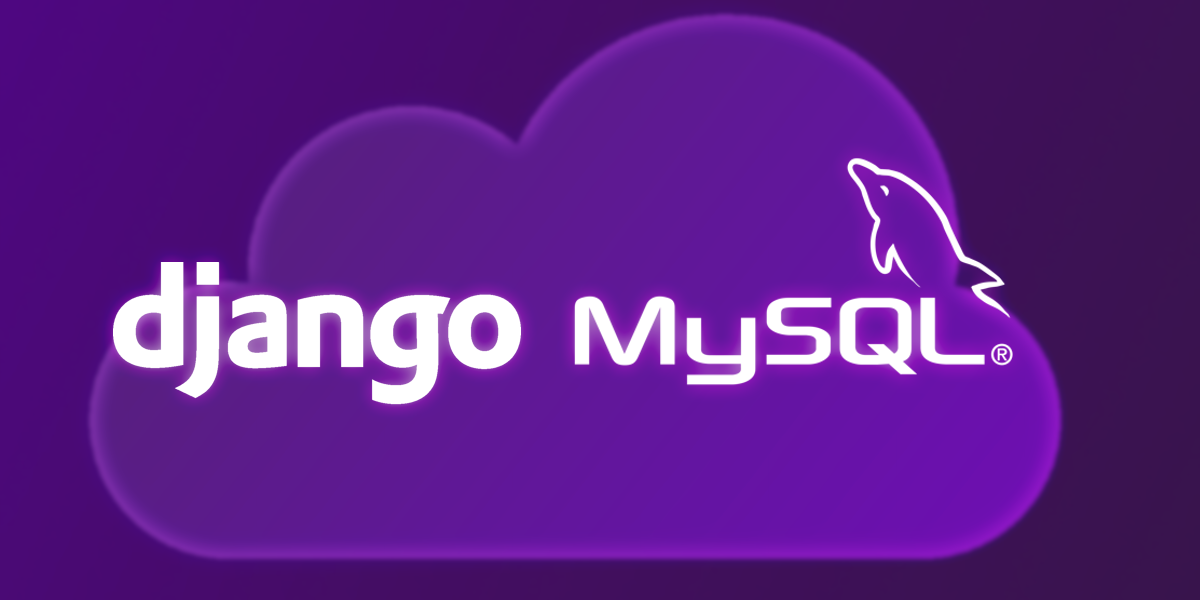
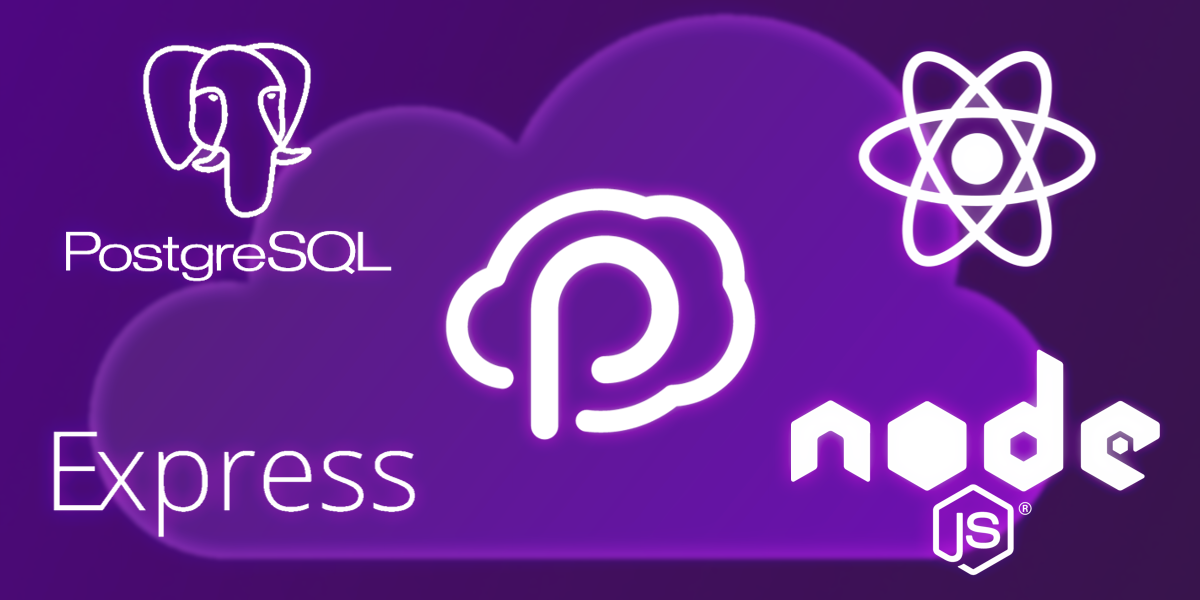
Added diagram and updated meta.png

diff --git a/content/blog/deploying-a-pern-stack-application-to-aws/index.md b/content/blog/deploying-a-pern-stack-application-to-aws/index.md
@@ -23,7 +23,7 @@ PERN projects have four distinct tiers:
 
 - and the users who run the code in their browsers and send requests to the stateless server.
 
-<Project diagram>
+![PERN app diagram](diagram.png)
 
 An advantage of infrastructure as code is that the application and infrastructure deployment can use the same language. As React and the other components use NodeJS, we'll use it for our infrastructure too by writing it TypeScript. The first step is to create a new directory and initialize a Pulumi project with `pulumi new aws-typescript`.
 
